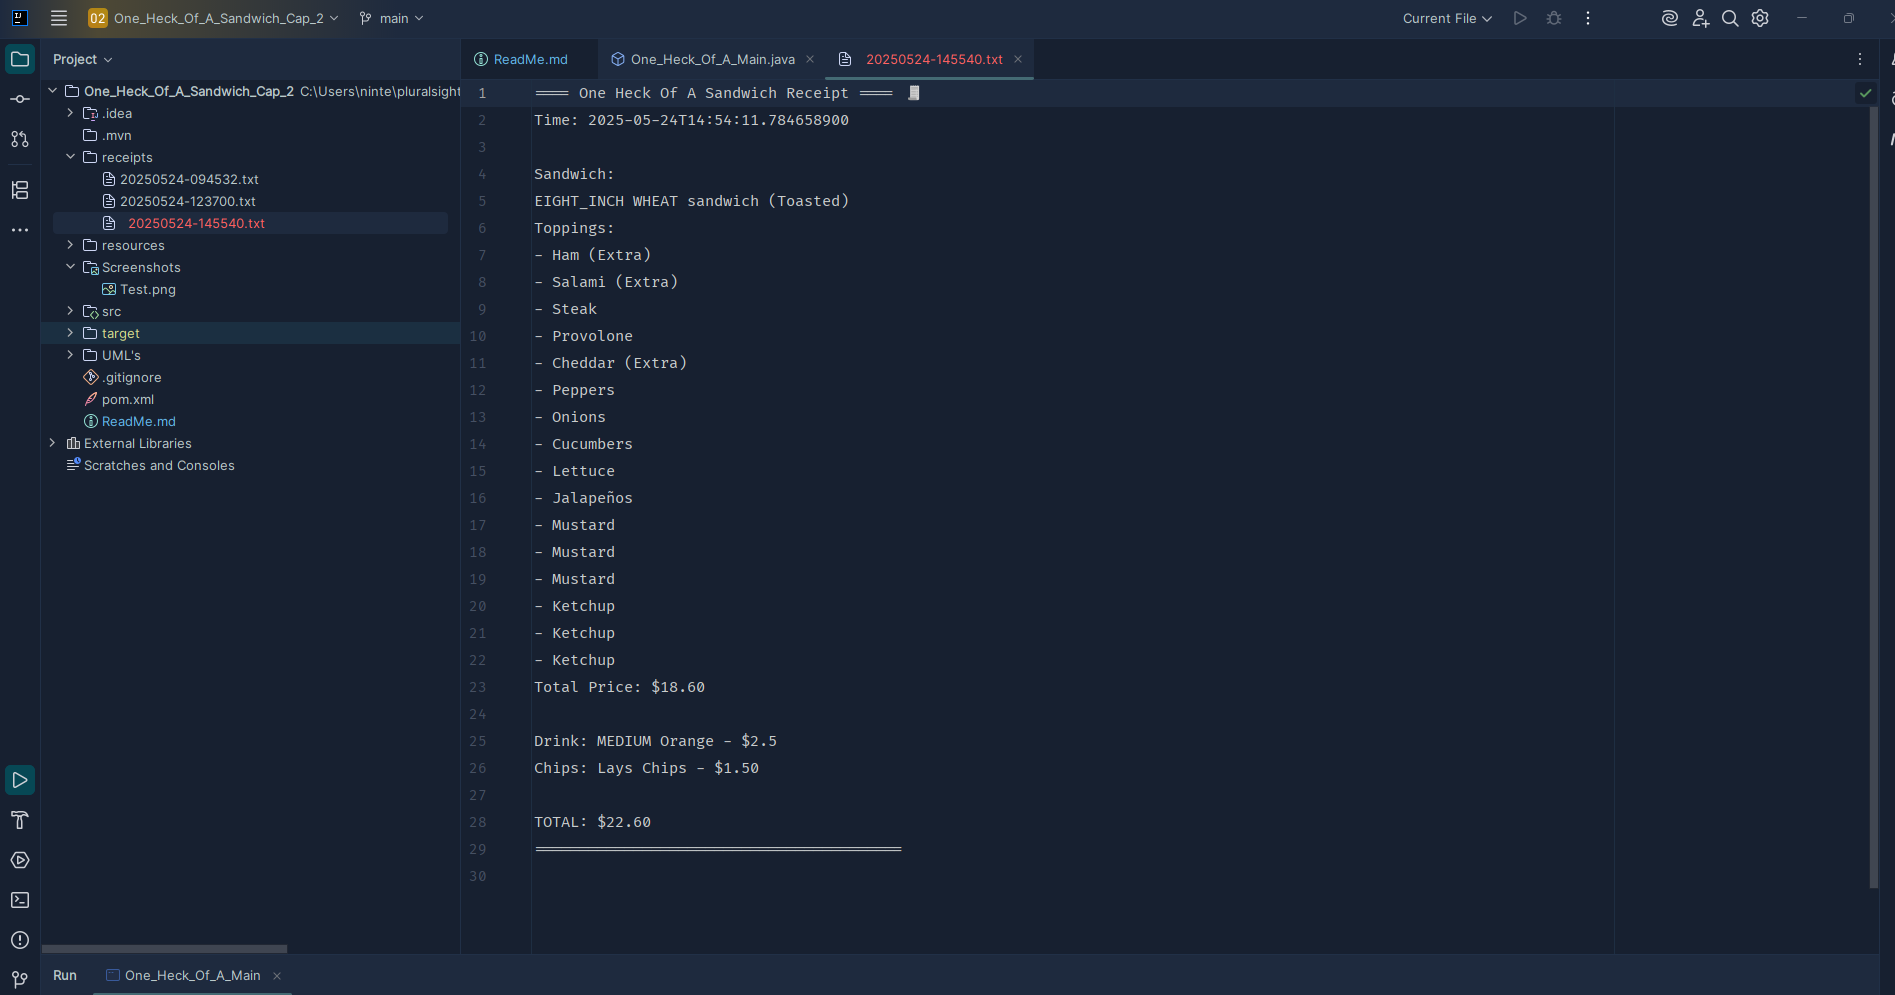
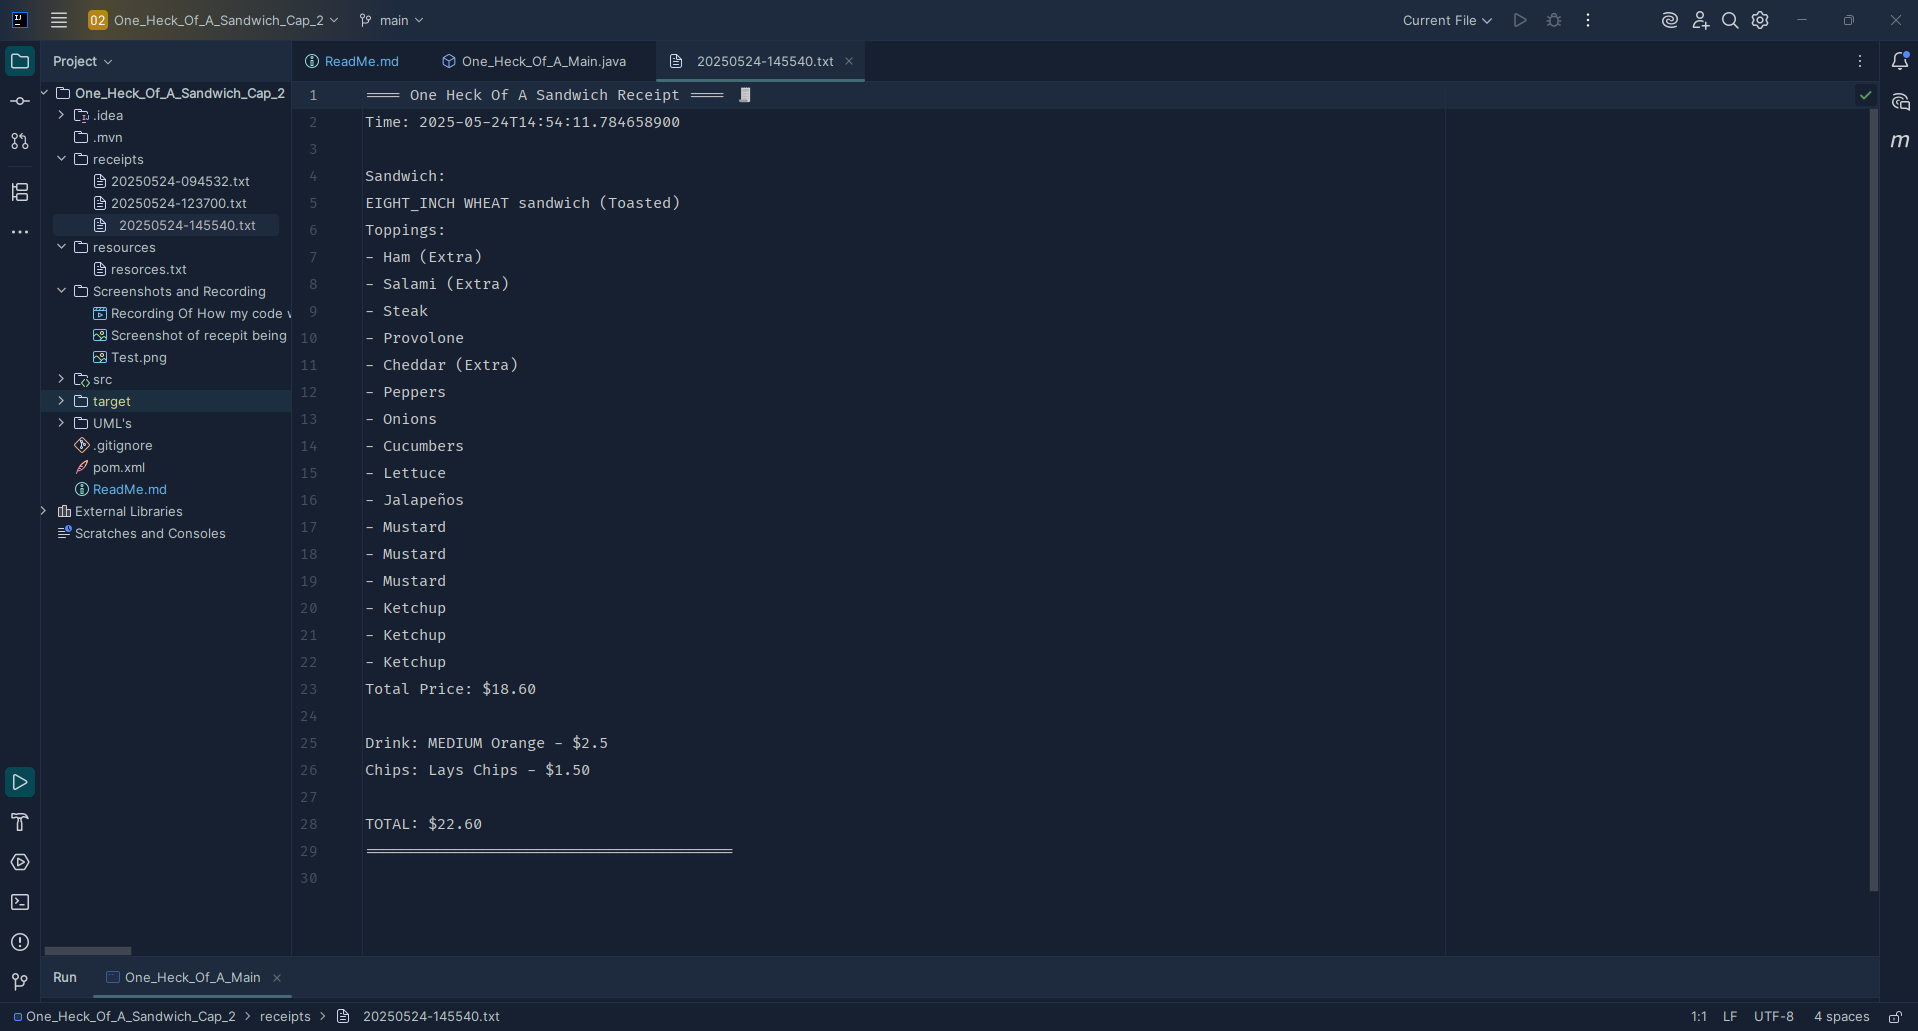
added screenshots and video recording of code

diff --git a/One_Heck_Of_A_Sandwich_Cap_2/ReadMe.md b/One_Heck_Of_A_Sandwich_Cap_2/ReadMe.md
@@ -39,10 +39,11 @@ Although the diagram appears a bit chaotic, I used color-coded arrows to clearly
 
 This is the flowchart I created to make sure that I do not get lost making this project. I also have a previous version here to compare between the two: https://github.com/Year-Up-United-SPR-2025/Capstones/blob/main/One_Heck_Of_A_Sandwich_Cap_2/UML's/OldFlowChart/One%20Heck%20of%20a%20Board.jpg
 
-# Video of how My code works 📹
+# Video and Screenshot Of How My code works 📹
+[Recording Of How my code works.mp4](Screenshots%20and%20Recording/Recording%20Of%20How%20my%20code%20works.mp4)
 
-
-
+Once you are done viewing my code you can see it creates the recipt in the receipts directory as shone here:
+![Screenshot of recepit being made in directory.png](Screenshots%20and%20Recording/Screenshot%20of%20recepit%20being%20made%20in%20directory.png)
 
 # References 🧭
 https://github.com/Year-Up-United-SPR-2025/Capstones/blob/main/One_Heck_Of_A_Sandwich_Cap_2/resources/resorces.txt
